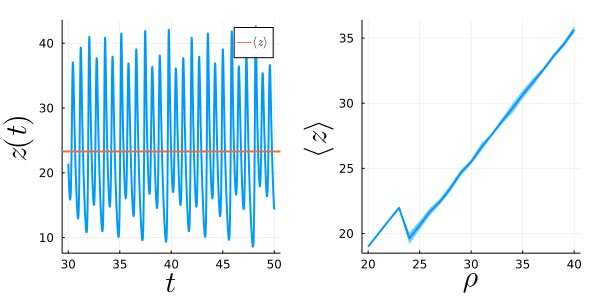
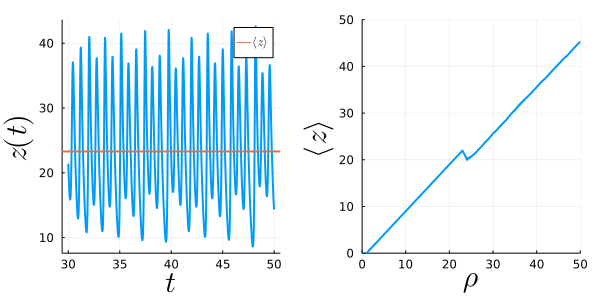
Initial commit

diff --git a/content/post/shadowing/index.md b/content/post/shadowing/index.md
@@ -132,7 +132,7 @@ function Lorenz_solve(p)
 end
 
 Niter = 10
-ps = collect(20.0:1.0:40.0)
+ps = collect(0.0:1.0:50.0)
 probs = []
 sols = []
 zmean = []
@@ -151,7 +151,7 @@ for ρ in ps
   push!(zstd,std(ztmp))
 end
 
-pl3 = plot(ps,zmean, ribbon = zstd, ylabel=L"\langle z\rangle", xlabel=L"\rho", legend=false, labelfontsize=20, lw = 2)
+pl3 = plot(ps,zmean, ribbon = zstd, ylabel=L"\langle z\rangle", xlabel=L"\rho", legend=false, labelfontsize=20, lw = 2, xlims=(0,50),ylims=(0,50))
 savefig(pl3, "zvsrho.png")
 
 pl4 = plot(pl2,pl3, margin=3Plots.mm, layout = (1, 2), size=(600,300))
@@ -200,7 +200,7 @@ $$
 $$
 
 
-Similarly, using [uncertainty quantification](https://diffeq.sciml.ai/stable/analysis/uncertainty_quantification/#Example-3:-Adaptive-ProbInts-on-the-Lorenz-Attractor) one realizes that due to finite numerical precision and the associated unavoidable errors that are amplified exponentially, one cannot follow the true solution of a chaotic system for long times. We can visualize this by twice solving the Lorenz system with exactly the same parameters and initial condition but with different floating point number precision. In the following animation, we see that after a few Lyapunov lengths, we see a $O(1)$ difference between both trajectories:
+Similarly, using [uncertainty quantification](https://diffeq.sciml.ai/stable/analysis/uncertainty_quantification/#Example-3:-Adaptive-ProbInts-on-the-Lorenz-Attractor) one realizes that due to finite numerical precision and the associated unavoidable errors that are amplified exponentially, one cannot follow the true solution of a chaotic system for long times. We can visualize this by solving the Lorenz system twice with exactly the same parameters and initial condition but with different floating point number precision. In the following animation, we see an $O(1)$ difference between both trajectories after a few Lyapunov lengths:
 
 ```julia
 prob_attractor1 = ODEProblem(lorenz!,sol_init[end],(0.0, 50.0),p)
